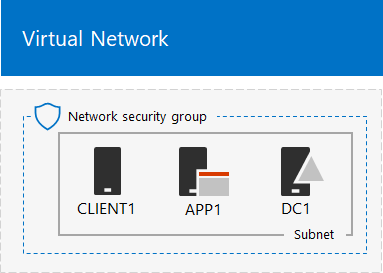
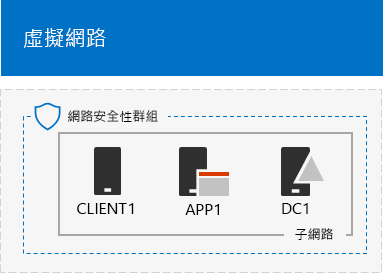
commit translated contents

diff --git a/microsoft-365/enterprise/microsoft-365-deploment-guide-changes.md b/microsoft-365/enterprise/microsoft-365-deploment-guide-changes.md
@@ -3,7 +3,7 @@ title: Microsoft 365 企業版部署內容的變更
 author: JoeDavies-MSFT
 ms.author: josephd
 manager: laurawi
-ms.date: 11/12/2019
+ms.date: 11/19/2019
 audience: ITPro
 ms.topic: article
 ms.service: o365-solutions
@@ -13,14 +13,24 @@ ms.collection:
 - Strat_O365_Enterprise
 ms.custom: ''
 description: 查看 Microsoft 365 部署指南中的新內容及變更。
-ms.openlocfilehash: d2946034c4f5bd5e650a18859c1fbd6fe3c6fdd4
-ms.sourcegitcommit: 8aa9f204b056f01bfb4c357347dc1592d0c9b688
+ms.openlocfilehash: 529d781f31157c6e9ad63a83ef5f8bb96873049d
+ms.sourcegitcommit: 2bdd7b535a7d2a4896df130b7047f8c85f4d47b4
 ms.translationtype: HT
 ms.contentlocale: zh-TW
-ms.lasthandoff: 11/15/2019
-ms.locfileid: "38669714"
+ms.lasthandoff: 11/19/2019
+ms.locfileid: "38711887"
 ---
 # <a name="changes-to-microsoft-365-enterprise-deployment-content"></a>Microsoft 365 企業版部署內容的變更
+
+## <a name="november-2019"></a>2019 年 11 月
+
+### <a name="new-content"></a>新增內容 
+
+- [從 Microsoft 365 企業版移轉至 Microsoft 365 企業版 E3](https://docs.microsoft.com/microsoft-365/business/migrate-from-microsoft-365-business-to-microsoft-365-enterprise)
+
+- [Contoso Corporation 的機密專案小組](contoso-team-for-top-secret-project.md)
+
+  [![Contoso Corporation 的機密專案小組](./media/contoso-team-for-highly-confidential-assets/final-config-example-file.png)](contoso-team-for-top-secret-project.md)
 
 ## <a name="october-2019"></a>2019 年 10 月
 
@@ -30,13 +40,13 @@ ms.locfileid: "38669714"
 
   [![適用於高度管制資料的 Teams 海報](././media/secure-teams-highly-regulated-data-scenario/teams-highly-regulated-data-poster.png)](./media/secure-teams-highly-regulated-data-scenario/TeamsHighlyRegulatedData.pdf)
 
-  您也可以以 [PDF](https://github.com/MicrosoftDocs/microsoft-365-docs/raw/public/microsoft-365/enterprise/media/secure-teams-highly-regulated-data-scenario/TeamsHighlyRegulatedData.pdf) 格式下載此海報，並以 Letter、Legal 或 Tabloid (11 x 17) 格式列印此海報。
+  您也可以用 [PDF](https://github.com/MicrosoftDocs/microsoft-365-docs/raw/public/microsoft-365/enterprise/media/secure-teams-highly-regulated-data-scenario/TeamsHighlyRegulatedData.pdf) 或 [PowerPoint](https://github.com/MicrosoftDocs/microsoft-365-docs/raw/public/microsoft-365/enterprise/media/secure-teams-highly-regulated-data-scenario/Teams-Highly-Regulated-Data-Poster.pptx) 格式下載此海報，以及用 Letter、Legal 或 Tabloid (11 x 17) 大小的紙張列印此海報。
 
 - [適用於高度管制資料的 SharePoint 網站海報](teams-sharepoint-online-sites-highly-regulated-data.md#poster)
 
   [![適用於高度管制資料的 SharePoint 網站海報](./media/teams-sharepoint-online-sites-highly-regulated-data/sharepoint-sites-highly-regulated-data-poster.png)](./media/teams-sharepoint-online-sites-highly-regulated-data/SharePointSitesHighlyRegulatedData.pdf)
 
-  您也可以以 [PDF](https://github.com/MicrosoftDocs/microsoft-365-docs/raw/public/microsoft-365/enterprise/media/teams-sharepoint-online-sites-highly-regulated-data/SharePointSitesHighlyRegulatedData.pdf) 格式下載此海報，並以 Letter、Legal 或 Tabloid (11 x 17) 格式列印此海報。
+  您也可以用 [PDF](https://github.com/MicrosoftDocs/microsoft-365-docs/raw/public/microsoft-365/enterprise/media/teams-sharepoint-online-sites-highly-regulated-data/SharePointSitesHighlyRegulatedData.pdf) 或 [PowerPoint](https://github.com/MicrosoftDocs/microsoft-365-docs/raw/public/microsoft-365/enterprise/media/teams-sharepoint-online-sites-highly-regulated-data/SharePoint-Sites-Highly-Regulated-Data.pptx) 格式下載此海報，以及用 Letter、Legal 或 Tabloid (11 x 17) 大小的紙張列印此海報。
 
 - [使用 Autopilot 部署 Windows 10 海報](windows10-deploy-autopilot.md) 
 
@@ -60,7 +70,7 @@ ms.locfileid: "38669714"
 
   [![強化遠端工作人員海報](./media/empower-people-to-work-remotely/empower-remote-workers-poster.png)](media/empower-people-to-work-remotely/empower-remote-workers-scenario.pdf) 
 
-- [從 Microsoft 365 企業版移轉至 Microsoft 365 企業版 E3](https://docs.microsoft.com/microsoft-365/business/migrate-from-microsoft-365-business-to-microsoft-365-enterprise)
+  您也可以用 [PDF](https://github.com/MicrosoftDocs/microsoft-365-docs/raw/public/microsoft-365/enterprise/media/empower-people-to-work-remotely/empower-remote-workers-scenario.pdf) 或 [PowerPoint](https://github.com/MicrosoftDocs/microsoft-365-docs/raw/public/microsoft-365/enterprise/media/empower-people-to-work-remotely/Empower-Remote-Workers-Poster.pptx) 格式下載此海報，以及用 Letter、Legal 或 Tabloid (11 x 17) 大小的紙張列印此海報。
 
 ### <a name="updates-and-enhancements"></a>更新和增強功能
 

diff --git a/microsoft-365/enterprise/modern-desktop-deployment-and-management-lab.md b/microsoft-365/enterprise/modern-desktop-deployment-and-management-lab.md
@@ -13,12 +13,12 @@ ms.collection:
 - Strat_O365_Enterprise
 ms.custom: ''
 description: 了解並得知何處可以存取 Windows 和 Office 部署的 Lab Kit。
-ms.openlocfilehash: b8d6ae3a6721a3563cc68fcec9dd7f9d470bb31e
-ms.sourcegitcommit: 70e920f76526f47fc849df615de4569e0ac2f4be
+ms.openlocfilehash: c3d3c8047e6814a56ec6470a9166fd0c13eb6839
+ms.sourcegitcommit: 6a413a65b8c2e10cea08f0a15635b28a1362a582
 ms.translationtype: HT
 ms.contentlocale: zh-TW
-ms.lasthandoff: 11/07/2019
-ms.locfileid: "38031108"
+ms.lasthandoff: 11/19/2019
+ms.locfileid: "38718632"
 ---
 # <a name="windows-and-office-deployment-lab-kit"></a>Windows 和 Office 部署的 Lab Kit
 
@@ -36,7 +36,7 @@ ms.locfileid: "38031108"
 
 實驗室可讓您自動佈建虛擬實驗室環境，包括網域結合的桌面用戶端、網域控制站、網際網路閘道，以及完整設定的 ConfigMgr 執行個體。實驗室包含下列產品的評估版本：
 
-  - Windows 10 企業版，版本 1903
+  - Windows 10 企業版，版本 1909
   - Windows 7 Enterprise
   - System Center Configuration Manager，版本 1902
   - Windows Assessment and Deployment Kit for Windows 10，版本 1903
@@ -118,7 +118,7 @@ ms.locfileid: "38031108"
 
 ### <a name="download-the-windows-and-office-deployment-lab-kithttpswwwmicrosoftcomevalcenterevaluate-lab-kit"></a>[**下載 Windows 和 Office 部署的 Lab Kit**](https://www.microsoft.com/evalcenter/evaluate-lab-kit)
 
-*請使用寬頻來下載此內容，以強化您的下載體驗，並允許 30-45 分鐘進行自動佈建。實驗室環境最少需要 16 GB 可用記憶體及 150 GB 可用磁碟空間。如需最佳效能，建議使用 32 GB 可用記憶體。實驗室將在 2019 年 11 月 16 日到期。到期之前，將會發佈新的版本。*
+*請使用寬頻來下載此內容，以強化您的下載體驗，並允許 30-45 分鐘進行自動佈建。實驗室環境最少需要 16 GB 可用記憶體及 150 GB 可用磁碟空間。如需最佳效能，建議使用 32 GB 可用記憶體。實驗室將在 2020 年 2 月 15 日到期。到期之前，將會發佈新的版本。*
 
 ## <a name="additional-guidance"></a>**其他指引**
 
